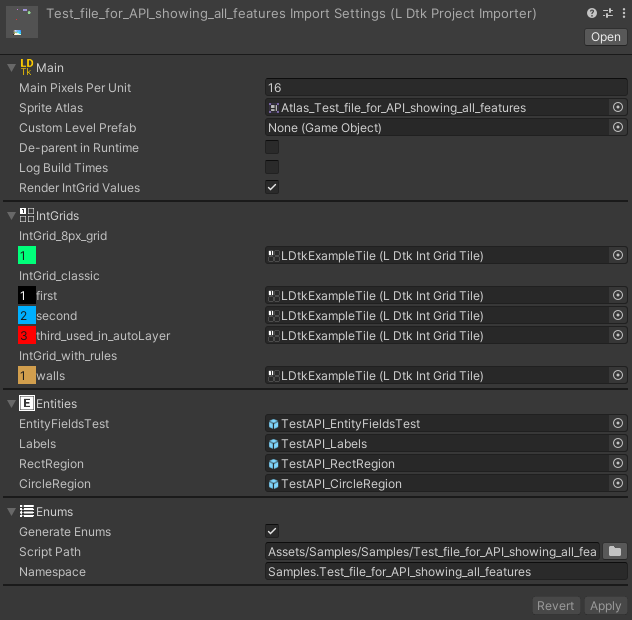
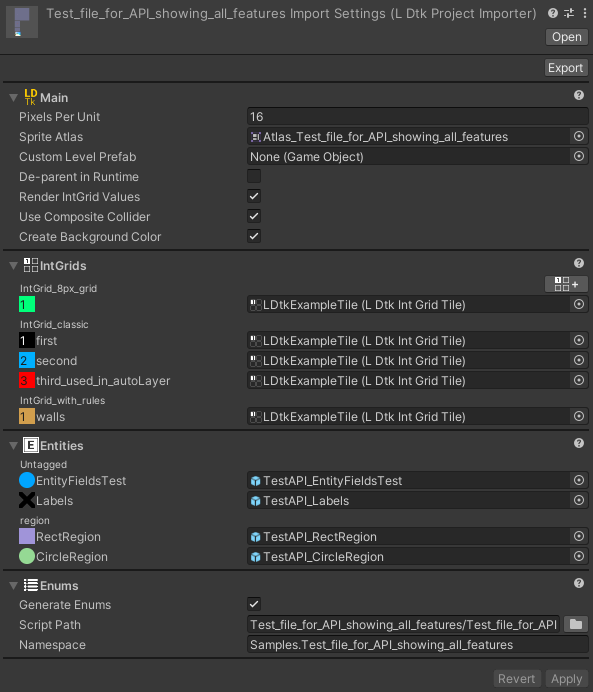
updated all documentation and images from the ui

diff --git a/Assets/LDtkUnity/CHANGELOG.md b/Assets/LDtkUnity/CHANGELOG.md
@@ -8,6 +8,7 @@
   
 - Added a new tree-view in the inspector for the sub assets `LDtkProjectFile` and `LDtkLevelFile` to see the Json data in a hierarchy
 - Added a new button in the IntGrid section of the importer inspector to create an IntGrid value asset
+  - This is the new way to create IntGrid tiles. The previous method of creating from the asset menu is removed. 
 
 
 - Improved the entities section in the importer inspector
@@ -26,13 +27,12 @@
   - This specific fix however, prohibits the use of nesting LDtk Projects or levels inside of prefabs, or else import errors will occur
     - Contact me if this is a very important issue. Explanation [here](https://github.com/Seanba/SuperTiled2Unity/issues/144#issuecomment-1011981650)
     
-
-- LDtk-related content (lines, labels) drawn in the scene will no longer draw if the associated GameObject is inactive
+- LDtk-related content drawn in the scene (lines, labels) will no longer draw if the associated GameObject is inactive
 
 - Some assets will now use an icon designated for light/dark mode instead of previously always being dark in their inspector window
   - For `LDtkLevelFile`, `LDtkProjectFile`, `LDtkArtifactAssets`, and `LDtkIntGridTile`
 
-- Other minor UI tweaks
+- Many other various UI tweaks
 
 # 2.1.8
 ###### December 16, 2021

diff --git a/DocFX/documentation/Importer/topic_Section_Enums.md b/DocFX/documentation/Importer/topic_Section_Enums.md
@@ -9,6 +9,7 @@ If enabled, a single C# script will be generated upon import.
 - The script contains all the enums of the LDtk project.
 - The script will be generated at a specified path. Use the folder button to browse a desired location.
 - A namespace field is available to specify the namespace for the generated script (Leave empty for no namespace).
+- If the script file needs to be contained within a specific assembly, then you can use an [Assembly Definition Reference](https://docs.unity3d.com/Manual/ScriptCompilationAssemblyDefinitionFiles.html#create-asmref) to point to your main assembly definition.
 
 **Note:**
 - Be aware that overwriting enums may break your current codebase if:

diff --git a/DocFX/documentation/Topics/topic_LevelFile.md b/DocFX/documentation/Topics/topic_LevelFile.md
@@ -1,9 +1,8 @@
 # Level File
 [_**Scripting Reference**_](../../api/LDtkUnity.LDtkLevelFile.yml)
 
-This is an imported `.ldtkl` file. It appears when an LDtk project uses separate level files.
-
+This is an import artifact of the [**Level Importer**](../Importer/topic_LevelImporter.md).
 ![Level Inspector](../../images/img_Unity_Json_Level.png)
 
-This doesn't carry much use, though it can be used as deserialized level data.
-
+Some of the the json data can be viewed in the inspector.  
+This can be referenced to get it's json data in runtime.

diff --git a/DocFX/documentation/Importer/topic_Section_Entities.md b/DocFX/documentation/Importer/topic_Section_Entities.md
@@ -3,7 +3,8 @@
 Assign GameObjects that would be spawned as entities.  
 ![Section](../../images/img_Unity_Section_Entities.png)
 
-If a field is left empty, then an empty gameObject will exist in it's place.
+Entities are grouped by tags. If there was an entity with multiple tags, then the field is automatically shared.  
+If a field is left empty, then an empty gameObject will exist in it's place within the hierarchy upon import.
 
 ### Position
 The prefab instance's transform position is set as the exact position in LDtk.  

diff --git a/DocFX/documentation/Topics/topic_ProjectFile.md b/DocFX/documentation/Topics/topic_ProjectFile.md
@@ -1,7 +1,8 @@
 # Project File
 [_**Scripting Reference**_](../../api/LDtkUnity.LDtkProjectFile.yml)
 
-This is an import product of the [**Project Importer**](../Importer/topic_ProjectImporter.md).  
+This is an import artifact of the [**Project Importer**](../Importer/topic_ProjectImporter.md).  
 ![Project Inspector](../../images/img_Unity_Json_Project.png)
 
-This can be used as deserialized project data.
+Some of the the json data can be viewed in the inspector.  
+This can be referenced to get it's json data in runtime.

diff --git a/DocFX/documentation/Importer/topic_Section_IntGrids.md b/DocFX/documentation/Importer/topic_Section_IntGrids.md
@@ -3,6 +3,8 @@
 Assign [**IntGrid Tiles**](../Topics/topic_IntGridTile.md) for collision.  
 ![Section](../../images/img_Unity_Section_IntGrids.png)
 
+- Create a new Int Grid Tile with the button at the top-right region of the inspector. 
+
 - All of the IntGrid layers and their values are displayed here for assigning.
   - The IntGrid Tiles are intended for collision first and foremost.  
     However there are also options for simple rendering, or GameObjects in tile-space.

diff --git a/DocFX/documentation/Topics/topic_IntGridTile.md b/DocFX/documentation/Topics/topic_IntGridTile.md
@@ -3,7 +3,7 @@
 
 In the importer's [**IntGrid section**](../Importer/topic_Section_IntGrids.md), you can assign Int Grid Tiles, which has options for tags, layers, custom collision, rendering colors, and GameObjects.
 
-Make some at `Assets > Create > LDtkIntGridTile`
+Make some in the [**IntGrid section**](../Importer/topic_Section_IntGrids.md).
 
 ![Level Inspector](../../images/img_Unity_IntGridTile.png)
 
